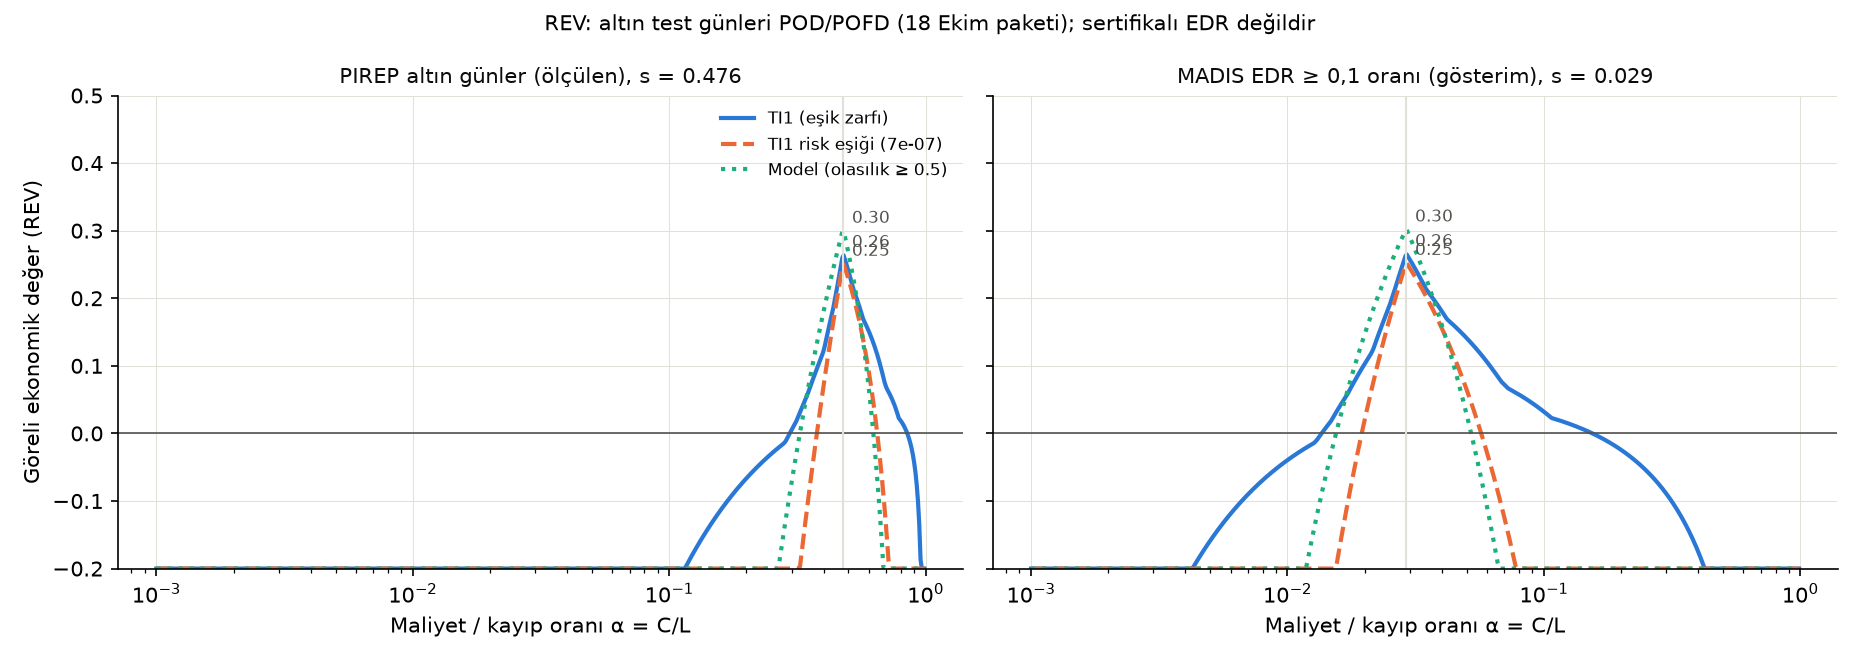
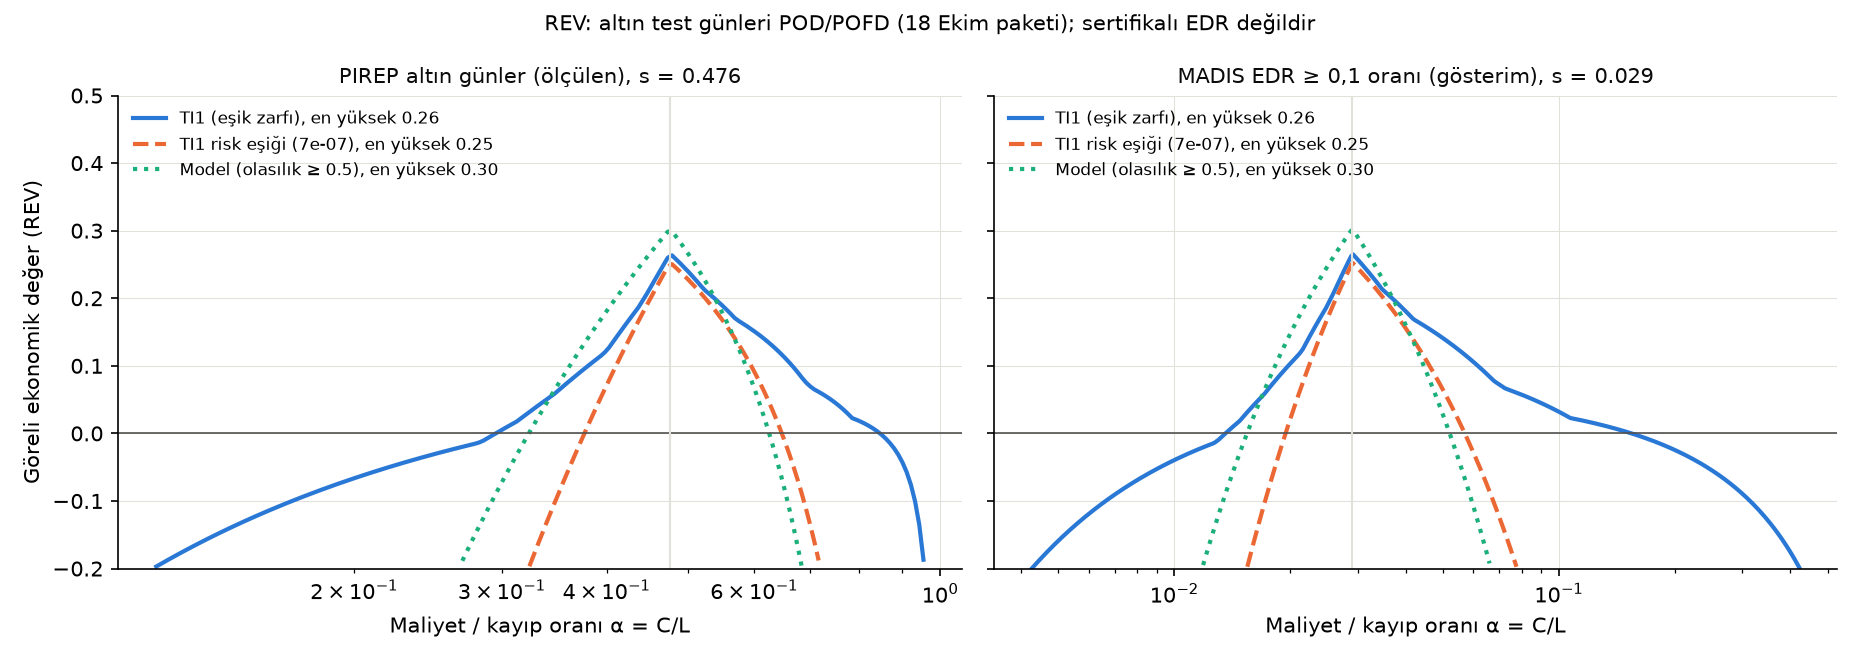
REV sekli duzeltildi; SONUCLAR §2.8, sonuc dizini (#16)

diff --git a/src/turbulans_radar/analiz/ekonomik_deger.py b/src/turbulans_radar/analiz/ekonomik_deger.py
@@ -90,15 +90,13 @@ def sekil_ciz(paket: dict, tabanlar: dict, yol: str) -> None:
     for eksen, (taban_adi, taban) in zip(eksenler[0], tabanlar.items(), strict=True):
         for (ad, noktalar), renk, cizgi in zip(seriler(paket).items(), RENKLER, CIZGILER, strict=True):
             egri = zarf(noktalar, taban)
-            eksen.plot(ALFALAR, np.clip(egri, -0.2, None), color=renk, linestyle=cizgi, linewidth=2, label=ad)
-            i = int(np.argmax(egri))
-            eksen.annotate(
-                f"{egri[i]:.2f}",
-                (ALFALAR[i], egri[i]),
-                textcoords="offset points",
-                xytext=(4, 4),
-                fontsize=8,
-                color="#52514e",
+            eksen.plot(
+                ALFALAR,
+                np.where(egri >= -0.2, egri, np.nan),
+                color=renk,
+                linestyle=cizgi,
+                linewidth=2,
+                label=f"{ad}, en yüksek {np.max(egri):.2f}",
             )
         eksen.axhline(0, color="#52514e", linewidth=0.8)
         eksen.axvline(taban, color="#e1e0d9", linewidth=1)
@@ -110,7 +108,8 @@ def sekil_ciz(paket: dict, tabanlar: dict, yol: str) -> None:
         for kenar in ("top", "right"):
             eksen.spines[kenar].set_visible(False)
     eksenler[0][0].set_ylabel("Göreli ekonomik değer (REV)")
-    eksenler[0][0].legend(frameon=False, fontsize=8, loc="upper right")
+    for eksen in eksenler[0]:
+        eksen.legend(frameon=False, fontsize=8, loc="upper left")
     fig.suptitle("REV: altın test günleri POD/POFD (18 Ekim paketi); sertifikalı EDR değildir", fontsize=10)
     fig.tight_layout()
     fig.savefig(yol, dpi=150, metadata={"Software": None})

diff --git a/docs/sonuclar/README.md b/docs/sonuclar/README.md
@@ -14,6 +14,8 @@ sayıların tek listesidir ve elle düzenlenmez.
 | [`2026-10-17/`](2026-10-17/README.md) | Ek analiz (ML paketi değil): kaçınma başlangıç zamanı, kalkışta ve yolda planlama (Fikir 18). | 12–16 Ekim 2026 GFS |
 | [`2026-10-18/`](2026-10-18/SAYILAR.md) | **Nihai paket.** Belgeler bu paketin sayılarını kullanır: 163 gün, protokol modeli RF, kapı geçildi (+0,033). Commit `5ddcd40`, üretim 18 Ekim 00:25 UTC; yedekten ve canlıdan birebir aynı üretildi (yedek `kalici/turbulans_20261018_dondurma.dump`). `ml_dondurma.json`: aday (GB) aktif 9 Ekim RF'yi geçemedi, saklandı. `ilk_uretim_sirasiz/`: sıralama düzeltmesinden önceki ilk üretim (GB +0,036), tarihçe. `rota_performansi`: 19 Ekim, şarjda, sıcak medyan 0,10–0,42 sn (kütle bandı hızlandırması sonrası; öncesi `rota_performansi_iyilestirme_oncesi.json`, 0,25–0,69 sn). | 18 Ekim 2026 |
 
+| [`2026-10-28_ekonomik_deger/`](2026-10-28_ekonomik_deger/README.md) | Ek analiz (#16): REV; PIREP taban oranında en yüksek REV TI1 0,26, model 0,30, yalnız α ≈ 0,3–0,8'de pozitif. | 18 Ekim altın günler |
+| [`2026-10-28_secim_kurali_maliyet/`](2026-10-28_secim_kurali_maliyet/README.md) | Ek analiz (#1b–c): `maliyet` seçim kuralı (5 dk bedel) uyarı oranı senaryolarında; önerilen rota 28/1.488'de değişti. | Ocak 2019 ERA5 |
 | [`2026-10-28_protokol_farki/`](2026-10-28_protokol_farki/README.md) | §10.7 (keşifsel): 147 eğitim gününde rastgele bölme RF ROC-AUC'yi değiştirmedi (−0,001; derin RF +0,001), hafif raporları çıkarmak +0,083 (0,702 → 0,785). | 147 eğitim günü |
 | [`2026-10-28_birlesik_kiyas/`](2026-10-28_birlesik_kiyas/README.md) | §10.6 (sonradan eklenen ikincil): §10'un 79 gününde temel model − birleşik EDR +0,016 [+0,010; +0,021]; birleşik EDR − TI1 +0,011. | §10 günleri (27 Ekim listesi) |
 | [`2026-10-28_zaman_ornekleme/`](2026-10-28_zaman_ornekleme/README.md) | Ek analiz: 3 saatlik zaman örneklemesinin TI1'e etkisi (saatlik küpe göre Spearman 0,923, aynı karar %95,9). | Ocak 2019 ERA5 |

diff --git a/docs/rapor/SONUCLAR.md b/docs/rapor/SONUCLAR.md
@@ -410,6 +410,18 @@ OOB bulgusuyla tutarlı). Hafif raporları çıkarmak 0,083 (TI1'de 0,063) artı
 kısmı etiket tanımından gelir; kalan ~0,08–0,12 bölge, özellik (koordinat, BADA) ve modelle ilgilidir,
 ölçülmedi. Paket `docs/sonuclar/2026-10-28_protokol_farki/`.
 
+### 2.8 Göreli ekonomik değer (REV; 28 Ekim, ek analiz)
+
+Altın test günlerinin POD/POFD'si (yeniden puanlama yok) Richardson (2000) maliyet/kayıp modeline
+kondu (kurul #16). PIREP örnek taban oranında (s = 0,476) en yüksek REV: TI1 eşik zarfı 0,26, TI1 risk
+eşiği (7e-7) 0,25, model (olasılık ≥ 0,5) 0,30; değer yalnız α = C/L ≈ 0,3–0,8 bandında pozitif.
+Kaçınma bedeli medyanı (%2,2 sefer yakıtı, §uyarı oranı) C alınırsa TI1 risk eşiği, bir orta-üstü
+karşılaşmanın kaybı sefer yakıtının %3,4–5,8'i arasındaysa "hep sap / hiç sapma"dan ucuzdur. Aynı
+POD/POFD'nin MADIS EDR ≥ 0,1 oranına (s = 0,029; farklı olay, aktarılabilirlik varsayımı) uygulandığı
+gösterimde bu aralık %39–114'e çıkar. POD/POFD nokta başınadır, rota başına değildir; PIREP taban oranı
+operasyonel sıklık değildir; kaybın gerçek değeri bilinmiyor. Sonuç sıralama ve mertebe içindir, eşik ya
+da seçim ağırlığı önerisi değildir. Paket `docs/sonuclar/2026-10-28_ekonomik_deger/` (şekil `rev_egrileri.png`).
+
 ## 3. Nesnel değerlendirme: MADIS ölçülen EDR (M1) — tarihçe, 5 Ekim (güncel: §0.4)
 
 Etiket: MADIS maxEDR ≥ 0,1 (hafif ve üstü). 12.232 ölçüm, 372 pozitif (%3,0), 4 gün.

diff --git a/docs/sonuclar/2026-10-28_ekonomik_deger/README.md b/docs/sonuclar/2026-10-28_ekonomik_deger/README.md
@@ -1,6 +1,6 @@
 # Göreli ekonomik değer (REV)
 
-Üretim: 2026-10-28T16:30:06+00:00 · girdi `docs/sonuclar/2026-10-18/sonuc_paketi.json` (altın test günleri POD/POFD) · yöntem Richardson (2000) maliyet/kayıp modeli. Kaçınma bedeli medyanı %2.2 sefer yakıtı (`2026-10-28_uyari_orani`, rüzgâr-optimum rotaya göre).
+Üretim: 2026-10-28T16:31:20+00:00 · girdi `docs/sonuclar/2026-10-18/sonuc_paketi.json` (altın test günleri POD/POFD) · yöntem Richardson (2000) maliyet/kayıp modeli. Kaçınma bedeli medyanı %2.2 sefer yakıtı (`2026-10-28_uyari_orani`, rüzgâr-optimum rotaya göre).
 
 | Taban oran | Gösterge | En yüksek REV (α) | Değer kattığı α aralığı | Değer kattığı kayıp aralığı (sefer yakıtı) |
 |---|---|---|---|---|
